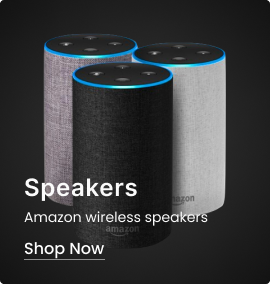
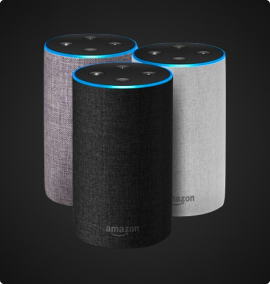
contact us

Changed region(s): [[0.0889, 0.7324, 0.7704, 0.7887], [0.0889, 0.6197, 0.5037, 0.7042], [0.0889, 0.8451, 0.3852, 0.9296]]

diff --git a/src/Components/Home/NewArival/NewArrival.jsx b/src/Components/Home/NewArival/NewArrival.jsx
@@ -14,7 +14,7 @@ const NewArrival = () => {
         </div>
         <div className="flex justify-between gap-x-[30px]">
           <div className="w-[50%]">
-            <div>
+            <div className="relative">
               <picture>
                 <img
                   src={NewArrivalPic1}
@@ -22,10 +22,21 @@ const NewArrival = () => {
                   className="w-full object-cover"
                 />
               </picture>
+              <div className="absolute bottom-0 left-0 h-full w-full pb-8 pl-8 pt-[80%] text-white">
+                <h4 className="font-inter text-2xl font-semibold text-whiteColor">
+                  PlayStation 5
+                </h4>
+                <p className="pb-4 pr-[350px] pt-4 font-poppins text-sm text-whiteColor">
+                  Black and White version of the PS5 coming out on sale.
+                </p>
+                <h3 className="cursor-pointer font-poppins text-base font-medium text-whiteColor underline decoration-whitesmoke_F5F5F5 decoration-1 underline-offset-4">
+                  Shop Now
+                </h3>
+              </div>
             </div>
           </div>
           <div className="w-[50%]">
-            <div className="pb-[47px]">
+            <div className="relative pb-[47px]">
               <picture>
                 <img
                   src={NewArrivalPic2}
@@ -33,22 +44,55 @@ const NewArrival = () => {
                   className="w-full object-cover"
                 />
               </picture>
+              <div className="absolute bottom-0 left-0 h-full w-full pb-8 pl-8 pt-[25%] text-white">
+                <h4 className="font-inter text-2xl font-semibold text-whiteColor">
+                  Women’s Collections
+                </h4>
+                <p className="pb-4 pr-[350px] pt-4 font-poppins text-sm text-whiteColor">
+                  Black and White version of the PS5 coming out on sale.
+                </p>
+                <h3 className="cursor-pointer font-poppins text-base font-medium text-whiteColor underline decoration-whitesmoke_F5F5F5 decoration-1 underline-offset-4">
+                  Shop Now
+                </h3>
+              </div>
             </div>
             <div className="flex justify-between">
-              <div className="h-[300px] w-[47%] rounded">
+              <div className="relative h-[300px] w-[47%] rounded">
                 <img
-                  src="/src/assets/NewArrival/Frame3.png"
-                  alt="New Arrival"
+                  src={NewArrivalPic3}
+                  alt={NewArrivalPic3}
                   className="h-full w-full rounded object-cover"
                 />
+                <div className="absolute bottom-0 left-0 h-full w-full pb-8 pl-8 pt-[50%] text-white">
+                  <h4 className="font-inter text-2xl font-semibold text-whiteColor">
+                    Speakers
+                  </h4>
+                  <p className="pb-4 pr-[50px] pt-4 font-poppins text-sm text-whiteColor">
+                    Black and White version of the PS5 coming out on sale.
+                  </p>
+                  <h3 className="cursor-pointer font-poppins text-base font-medium text-whiteColor underline decoration-whitesmoke_F5F5F5 decoration-1 underline-offset-4">
+                    Shop Now
+                  </h3>
+                </div>
               </div>
 
-              <div className="h-[300px] w-[47%] rounded">
+              <div className="relative h-[300px] w-[47%] rounded">
                 <img
-                  src="/src/assets/NewArrival/Frame3.png"
-                  alt="New Arrival"
+                  src={NewArrivalPic4}
+                  alt={NewArrivalPic4}
                   className="h-full w-full rounded object-cover"
                 />
+                <div className="absolute bottom-0 left-0 h-full w-full pb-8 pl-8 pt-[50%] text-white">
+                  <h4 className="font-inter text-2xl font-semibold text-whiteColor">
+                    Perfume
+                  </h4>
+                  <p className="pb-4 pr-[50px] pt-4 font-poppins text-sm text-whiteColor">
+                    Black and White version of the PS5 coming out on sale.
+                  </p>
+                  <h3 className="cursor-pointer font-poppins text-base font-medium text-whiteColor underline decoration-whitesmoke_F5F5F5 decoration-1 underline-offset-4">
+                    Shop Now
+                  </h3>
+                </div>
               </div>
             </div>
           </div>

diff --git a/src/Components/Home/ContactUs/ContactUs.jsx b/src/Components/Home/ContactUs/ContactUs.jsx
@@ -1,0 +1,59 @@
+import React from "react";
+import { BsHeadset } from "react-icons/bs";
+import { IoShieldCheckmarkSharp } from "react-icons/io5";
+import { TbTruckDelivery } from "react-icons/tb";
+
+const Service = [
+  {
+    id: 1,
+    Icon: (
+      <TbTruckDelivery className="rounded-full bg-text2_black_full p-2 text-[40px] text-whiteColor" />
+    ),
+    tittle: "FREE AND FAST DELIVERY",
+    description: "Free delivery for all orders over $140",
+  },
+  {
+    id: 2,
+    Icon: (
+      <BsHeadset className="rounded-full bg-text2_black_full p-2 text-[40px] text-whiteColor" />
+    ),
+    tittle: "24/7 CUSTOMER SERVICE",
+    description: "Friendly 24/7 customer support",
+  },
+  {
+    id: 3,
+    Icon: (
+      <IoShieldCheckmarkSharp className="rounded-full bg-text2_black_full p-2 text-[40px] text-whiteColor" />
+    ),
+    tittle: "MONEY BACK GUARANTEE",
+    description: "We reurn money within 30 days",
+  },
+];
+
+const ContactUs = () => {
+  return (
+    <div className="container">
+      <div className="mb-[140px] mt-[208px] flex flex-wrap justify-around">
+        {Service?.map((item) => (
+          // Add return statement here
+          <div
+            key={item.id}
+            className="flex flex-col items-center justify-center text-center"
+          >
+            <span className="inline-block rounded-full bg-[rgba(47,46,48,0.30)] p-2">
+              {item.Icon}
+            </span>
+            <h5 className="pt-6 font-poppins text-xl font-semibold text-text2_black_full">
+              {item.tittle}
+            </h5>
+            <p className="pt-2 font-poppins text-sm text-text2_black_full">
+              {item.description}
+            </p>
+          </div>
+        ))}
+      </div>
+    </div>
+  );
+};
+
+export default ContactUs;

diff --git a/src/Pages/HomePage/Homepage.jsx b/src/Pages/HomePage/Homepage.jsx
@@ -8,6 +8,7 @@ import BestSelling from "../../Components/Home/BestSelling/BestSelling";
 import ExperiencePoster from "../../Components/Home/ExperiencePoster/ExperiencePoster";
 import ExploreProducts from "../../Components/Home/ExploreProduct/ExploreProducts";
 import NewArrival from "../../Components/Home/NewArival/NewArrival";
+import ContactUs from "../../Components/Home/ContactUs/ContactUs";
 
 const Homepage = () => {
   return (
@@ -21,6 +22,7 @@ const Homepage = () => {
       <ExperiencePoster />
       <ExploreProducts />
       <NewArrival />
+      <ContactUs />
     </div>
   );
 };
